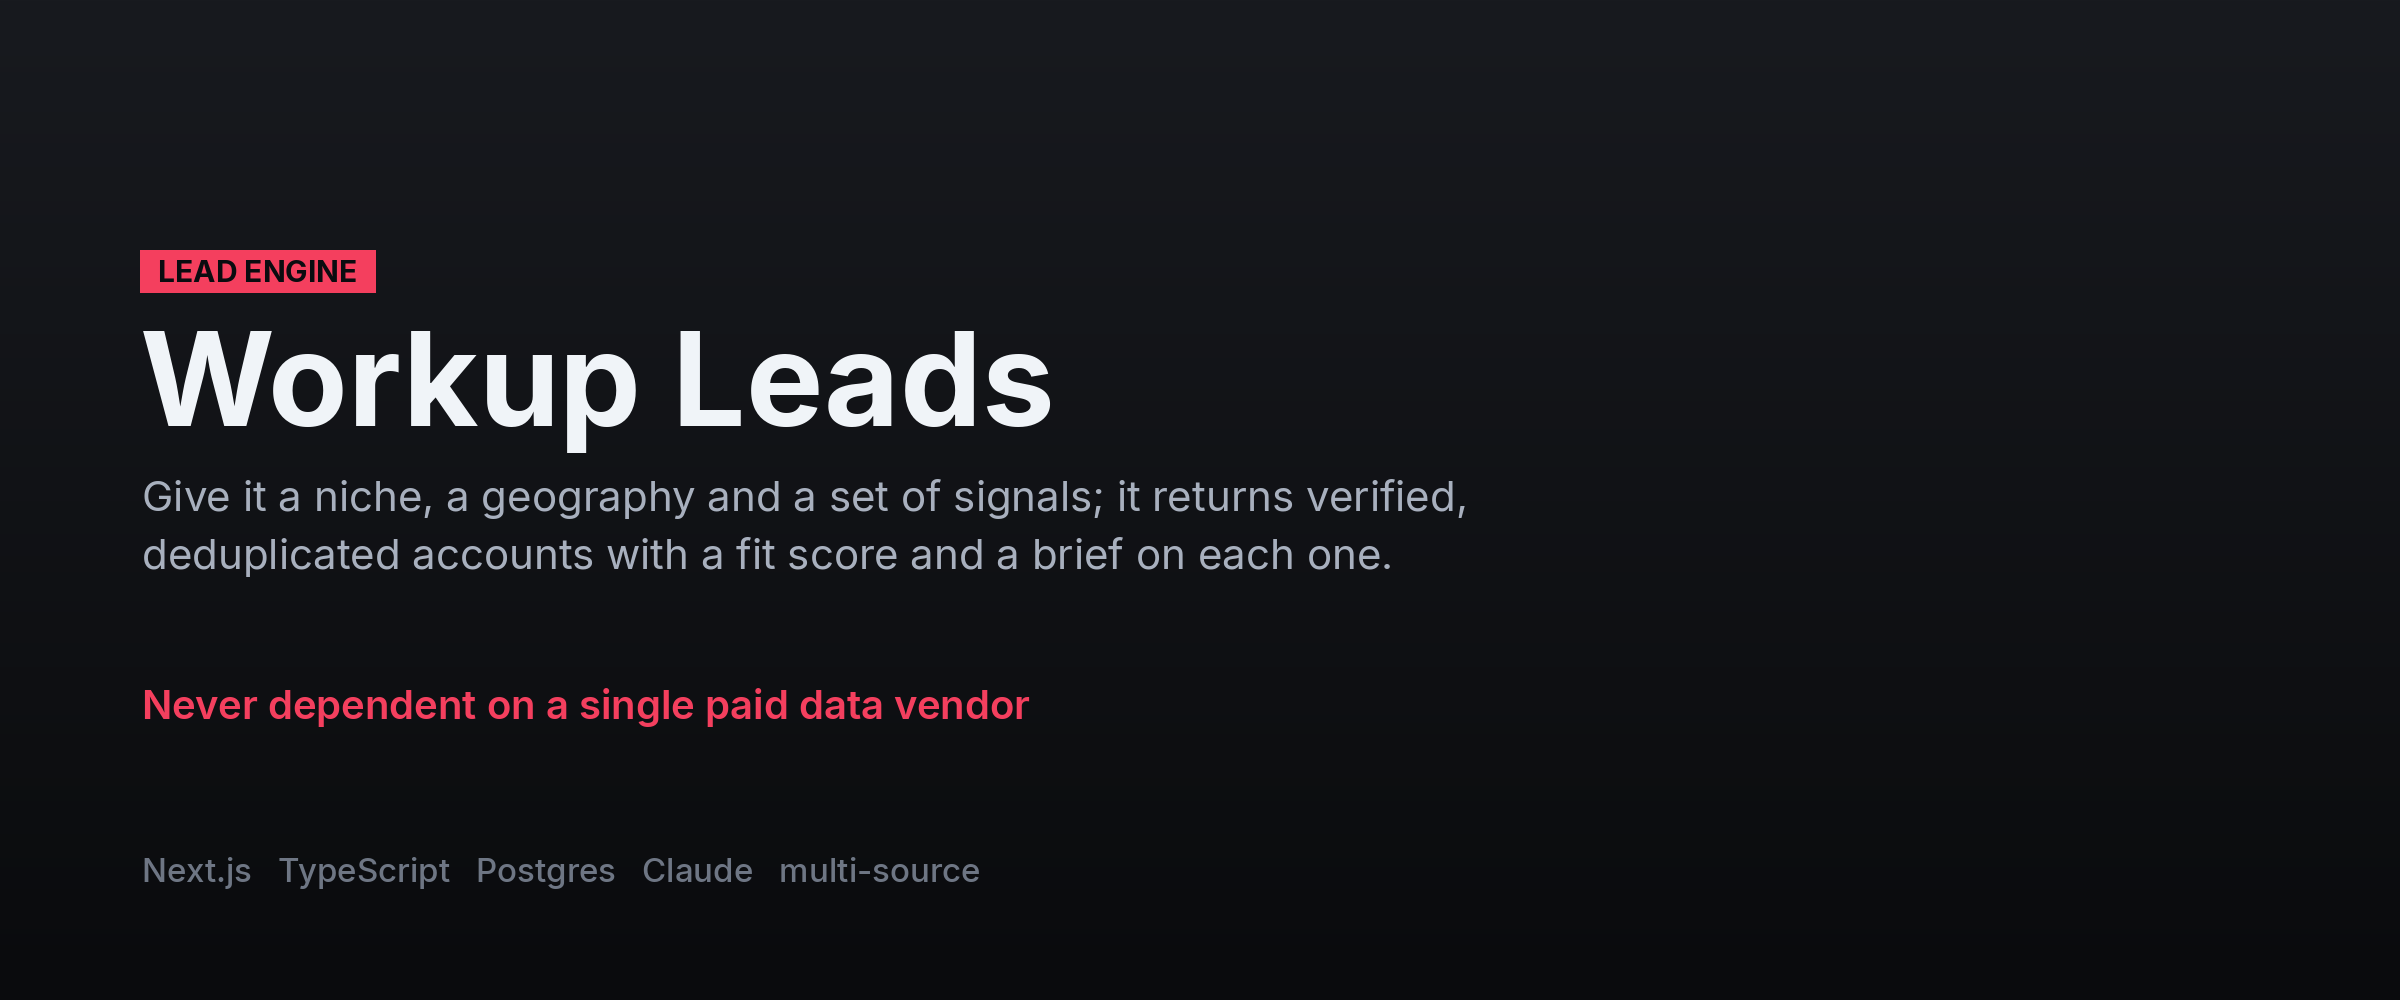
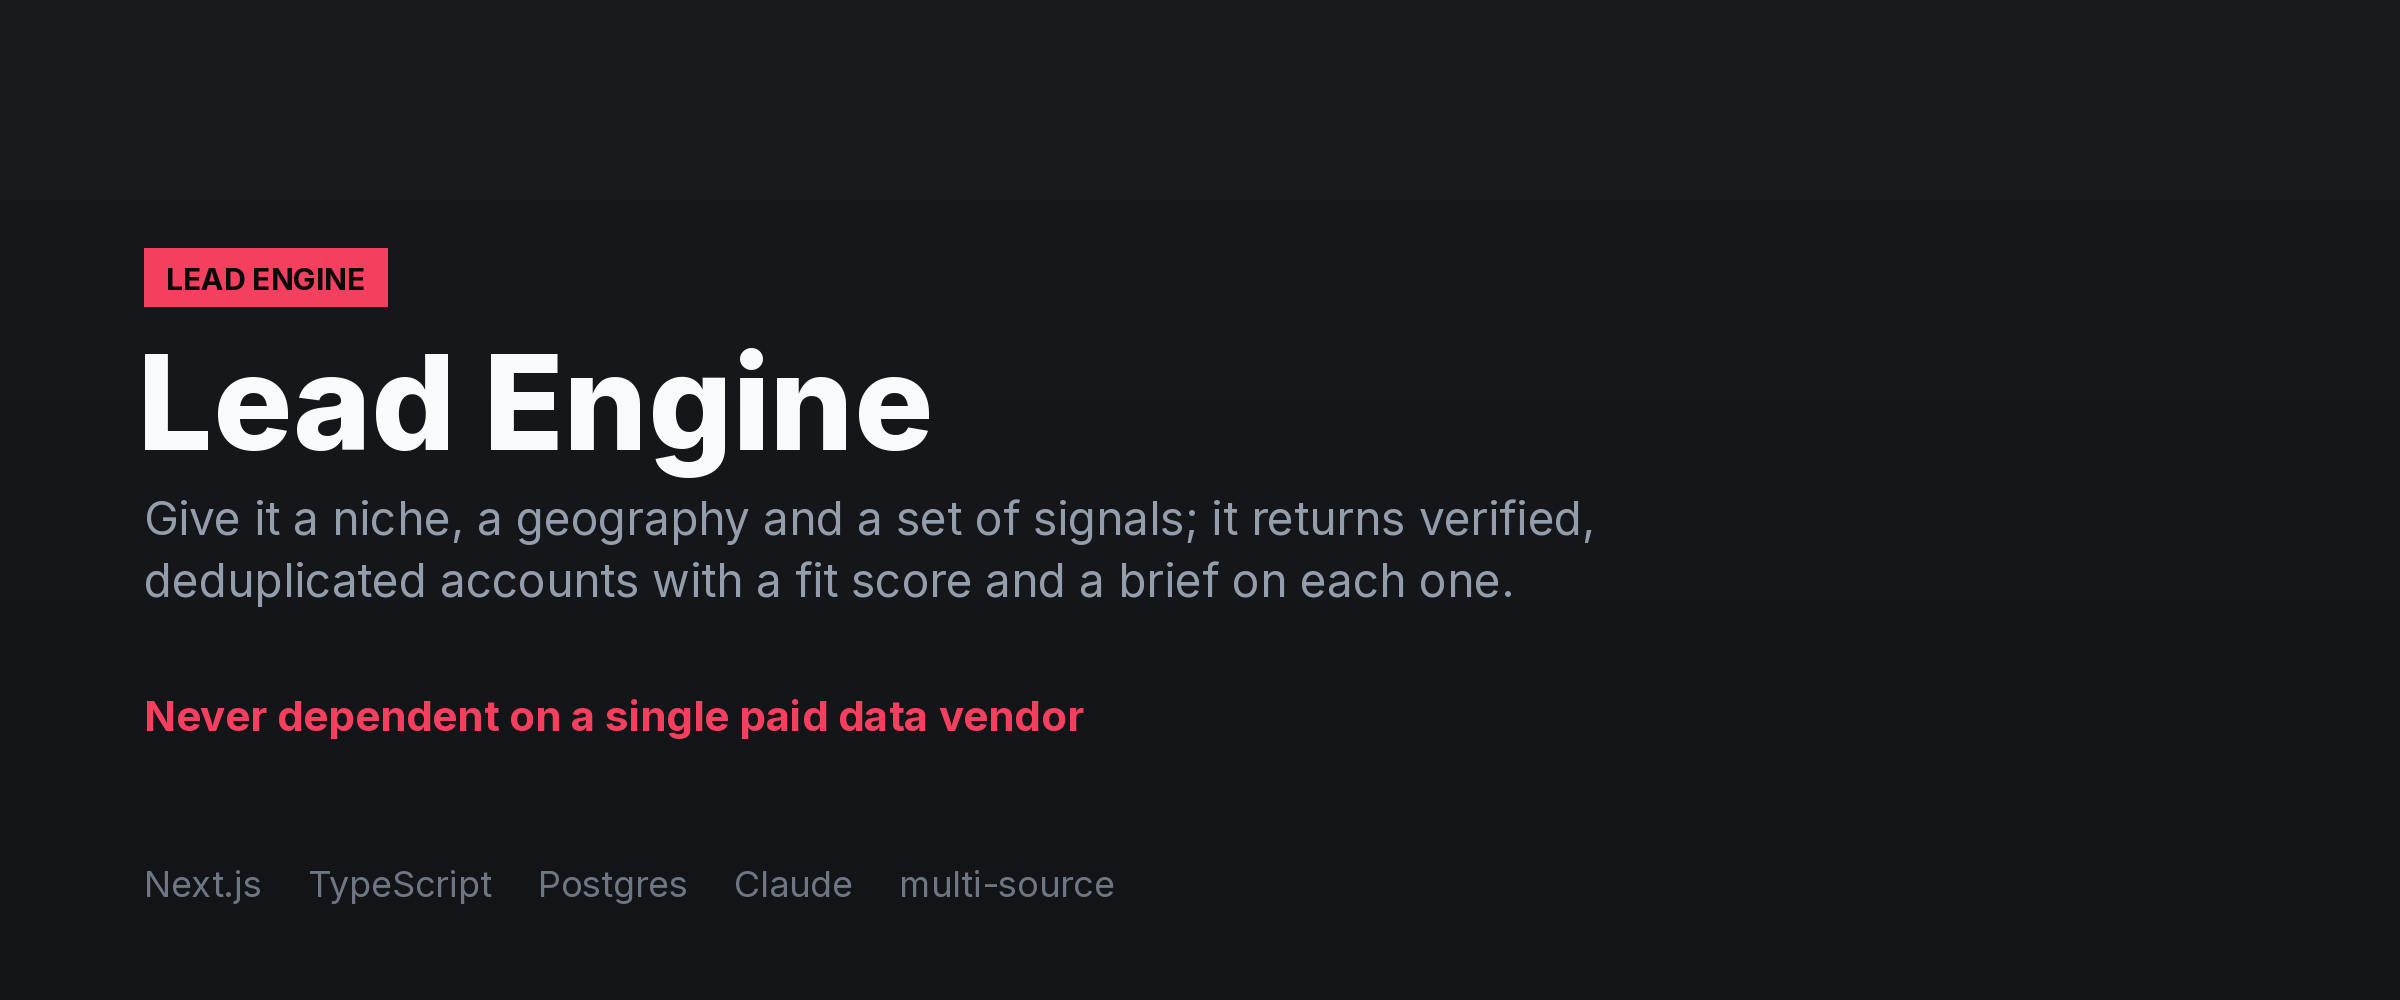
Cover art and copy: drop internal product naming and the demo link

Changed region(s): [[0.0625, 0.248, 0.6562, 0.62], [0.0625, 0.682, 0.4688, 0.744], [0.0625, 0.868, 0.4688, 0.899]]

diff --git a/README.md b/README.md
@@ -12,7 +12,7 @@ single paid data vendor.
 real rows from OpenStreetMap with evidence links and a deterministic fit score, no API key
 needed. **Spec:** [SPEC.md](SPEC.md)
 
-🟢 **Live demo:** https://workup-leads.vercel.app · **Source:** private, available on request
+**Source:** private, available on request
 
 ## Dashboard
 
@@ -49,7 +49,7 @@ respected. No login-gated scraping. Crawls cached and reused for 30 days.
 
 ## A note on what you can see here
 
-The live demo runs on **seeded demo data** — a fictional tenant and synthetic records throughout. No client data appears in the demo or in this repository, and the implementation is private.
+Screenshots in this repository use **seeded demo data** — a fictional tenant and synthetic records throughout. No client data appears in this repository, and the implementation is private.
 
 ---
 <sub>Part of the <a href="https://github.com/musabqazi">musabqazi portfolio</a> · source private. © 2026 Musab Qazi</sub>
